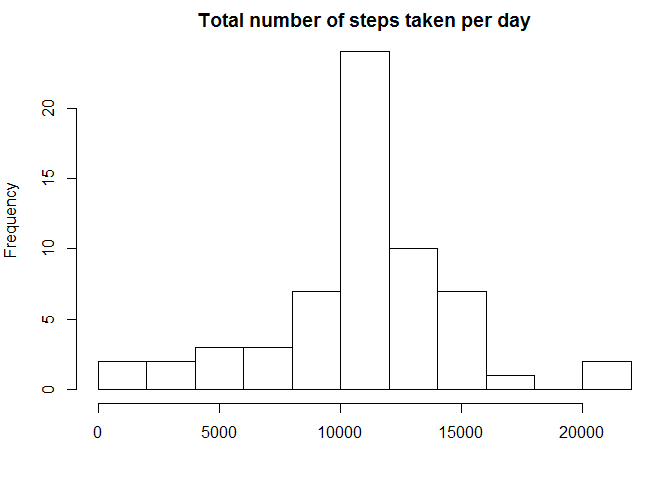
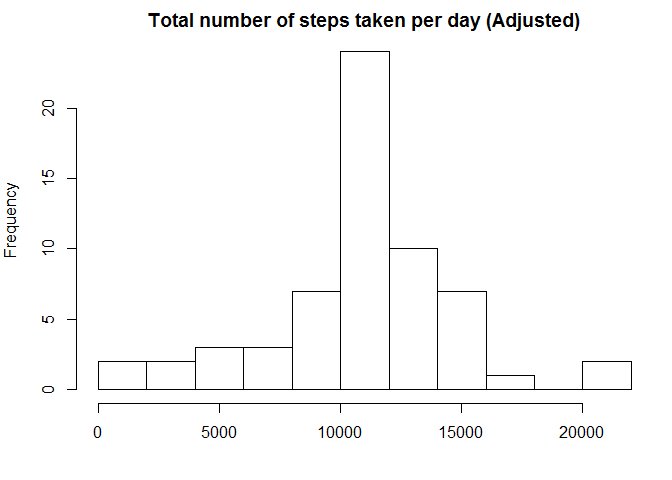
upload assignment 1

Changed region(s): [[0.2188, 0.0, 0.875, 0.0625]]

diff --git a/PA1_template.html b/PA1_template.html
@@ -55,7 +55,7 @@ if (window.hljs && document.readyState && document.readyState === "complete") {
 </div>
 
 
-<p>‘r opts_chunk$set(echo=FALSE, results = “hide”)’</p>
+<pre><code>## Warning: package 'knitr' was built under R version 3.1.3</code></pre>
 <div id="instructions" class="section level2">
 <h2>Instructions</h2>
 <p>Download the necessary files from github</p>
@@ -115,14 +115,14 @@ data.new &lt;- data[, c(1:3)] #remove added column (i.e mean column)</code></pre
 <p>3d. Make a histogram of the total number of steps taken each day</p>
 <pre class="r"><code>h2data &lt;- ddply (data.new, .(date), summarize, sum=sum(steps))
 par (mar=c(4,4,2,1))
-hist(h2data$sum, 10, main = &quot;Total number of steps taken per day&quot;, xlab = &quot;&quot;)</code></pre>
[1 lines of base64/hex data omitted]
+hist(h2data$sum, 10, main = &quot;Total number of steps taken per day (Adjusted)&quot;, xlab = &quot;&quot;)</code></pre>
[1 lines of base64/hex data omitted]
 <p>3e. Calculate and report the mean and median total number of steps taken per day. Do these values differ from the estimates from the first part of the assignment? What is the impact of imputing missing data on the estimates of the total daily number of steps?</p>
 <pre class="r"><code>round(mean(h2data$sum), 0)</code></pre>
 <pre><code>## [1] 10766</code></pre>
 <pre class="r"><code>round(median(h2data$sum), 0)</code></pre>
 <pre><code>## [1] 10766</code></pre>
-<p>Yes, the values differ from the estimates from the first part of the assignment. The impact of inputting missing data is minimal, as the median seems to change by only one step.</p>
+<p><strong>Yes, the values differ from the estimates from the first part of the assignment. The impact of inputting missing data is minimal, as the median seems to change by only one step.</strong></p>
 </div>
 <div id="are-there-differences-in-activity-patterns-between-weekdays-and-weekends" class="section level2">
 <h2>Are there differences in activity patterns between weekdays and weekends?</h2>

diff --git a/PA1_template.md b/PA1_template.md
@@ -1,6 +1,9 @@
 # Reproducible Research: Peer Assessment 1
 
-'r opts_chunk$set(echo=FALSE, results = "hide")'
+
+```
+## Warning: package 'knitr' was built under R version 3.1.3
+```
 
 ## Instructions
 
@@ -115,7 +118,7 @@ data.new <- data[, c(1:3)] #remove added column (i.e mean column)
 ```r
 h2data <- ddply (data.new, .(date), summarize, sum=sum(steps))
 par (mar=c(4,4,2,1))
-hist(h2data$sum, 10, main = "Total number of steps taken per day", xlab = "")
+hist(h2data$sum, 10, main = "Total number of steps taken per day (Adjusted)", xlab = "")
 ```
 
 ![](PA1_template_files/figure-html/hist2-1.png) 
@@ -140,7 +143,7 @@ round(median(h2data$sum), 0)
 ## [1] 10766
 ```
 
-Yes, the values differ from the estimates from the first part of the assignment. The impact of inputting missing data is minimal, as the median seems to change by only one step.
+**Yes, the values differ from the estimates from the first part of the assignment. The impact of inputting missing data is minimal, as the median seems to change by only one step.**
 
 ## Are there differences in activity patterns between weekdays and weekends?
 
